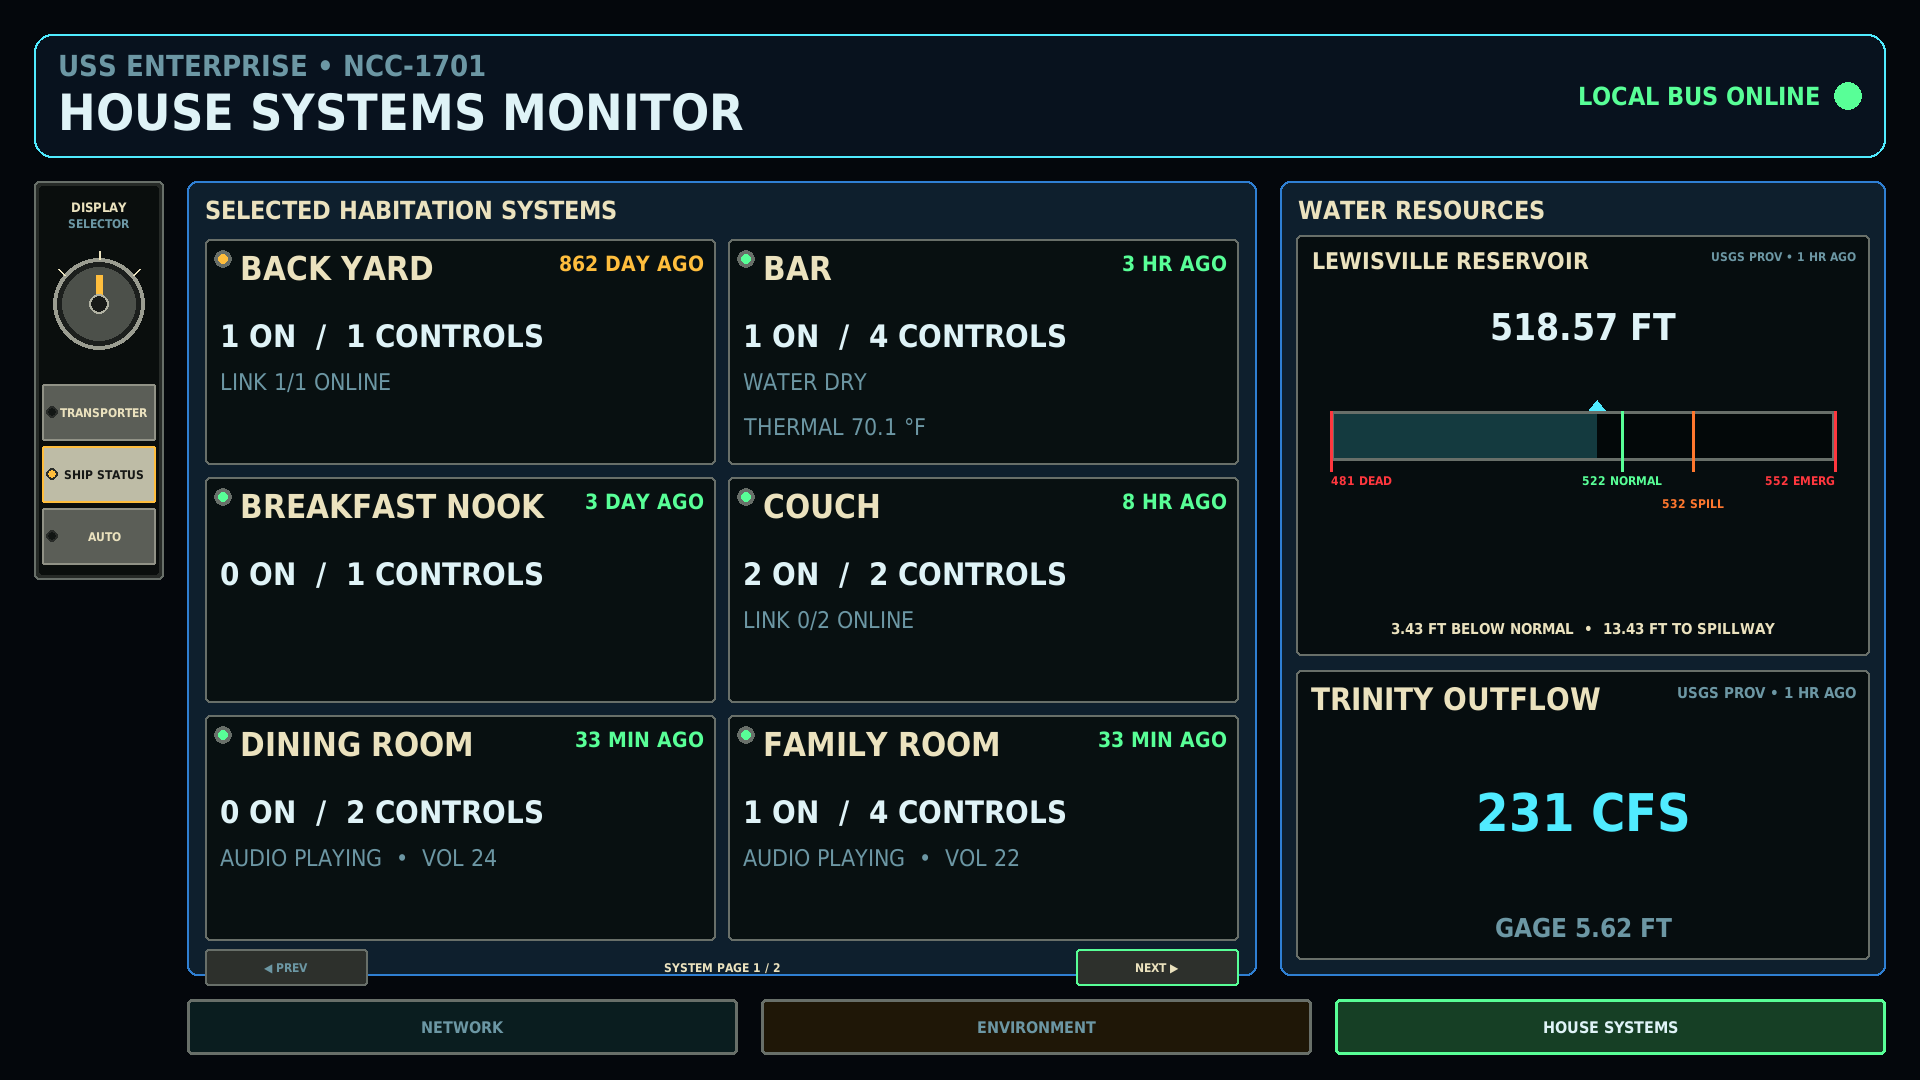
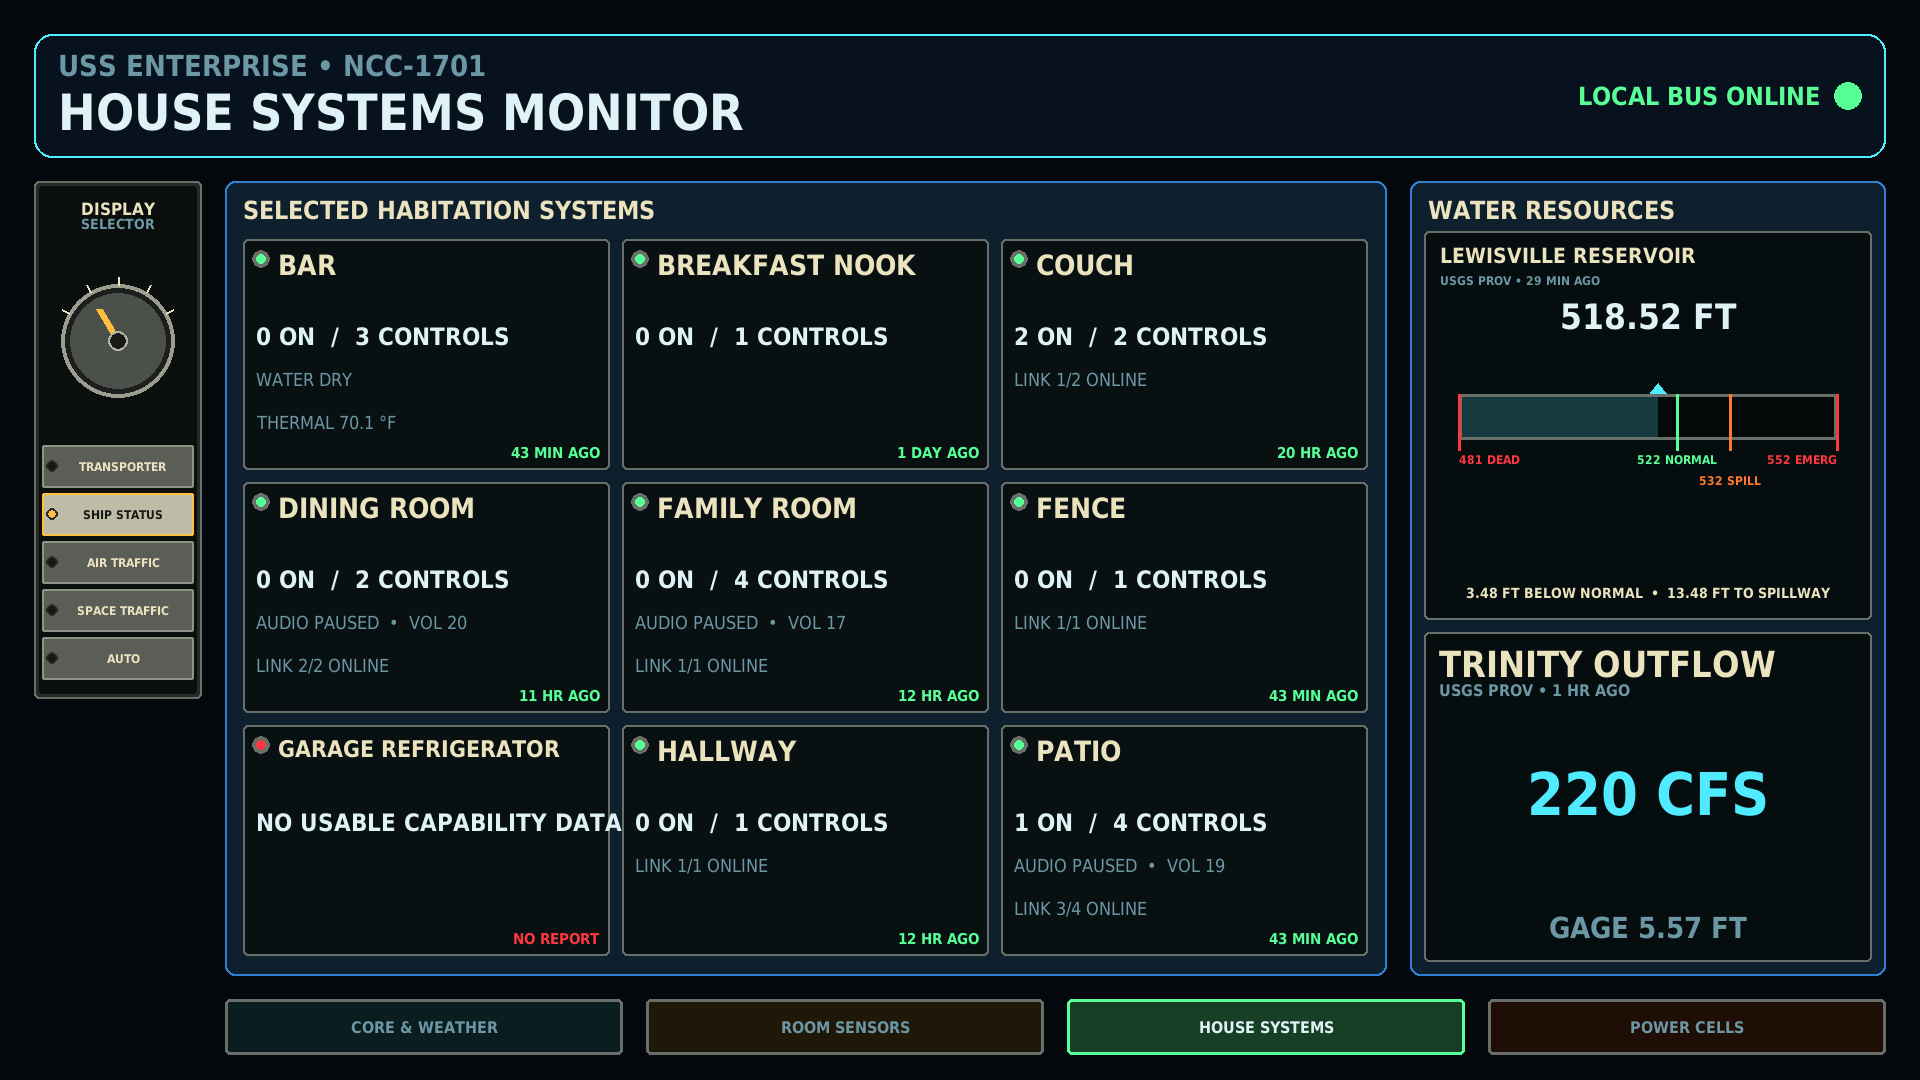
Compact house systems dashboard

Changed region(s): [[0.0, 0.1528, 1.0, 0.9778], [0.3125, 0.9167, 0.3438, 0.9778], [0.1875, 0.9472, 0.25, 0.9778]]

diff --git a/startrek.py b/startrek.py
@@ -853,7 +853,7 @@ def house_pager_layout(size):
     gap, margin = int(w * .012), int(w * .018)
     content_x = r["mode_selector"].right + gap
     content_w = w - margin - content_x
-    grid_w = int(content_w * .63)
+    grid_w = int(content_w * .70)
     y = status_nav_layout(size)["NETWORK"].y - int(h * .047)
     return {
         "PREVIOUS": pygame.Rect(content_x + 18, y, int(w * .085), int(h * .035)),
@@ -1678,18 +1678,20 @@ def draw_house_card(surface, rect, group, devices):
     panel(surface, rect, (8, 16, 17), BEZEL, 5)
     pygame.draw.circle(surface, BEZEL, (rect.x + 18, rect.y + 20), 9)
     pygame.draw.circle(surface, color, (rect.x + 18, rect.y + 20), 5)
-    txt(surface, group, rect.h * .15, CREAM, (rect.x + 35, rect.y + 10), bold=True)
-    txt(surface, compact_age(updated), rect.h * .095, color, (rect.right - 12, rect.y + 12), "topright", True)
-    line_y = rect.y + int(rect.h * .43)
+    title_scale = .10 if len(group) > 16 else .125
+    txt(surface, group, rect.h * title_scale, CREAM, (rect.x + 35, rect.y + 10), bold=True)
+    txt(surface, compact_age(updated), rect.h * .065, color,
+        (rect.right - 10, rect.bottom - 8), "bottomright", True)
+    line_y = rect.y + int(rect.h * .42)
     for index, line in enumerate(lines):
-        txt(surface, line, rect.h * (.14 if index == 0 else .105), WHITE if index == 0 else MUTED,
-            (rect.x + 15, line_y + index * int(rect.h * .20)), "midleft", index == 0)
+        txt(surface, line, rect.h * (.105 if index == 0 else .080), WHITE if index == 0 else MUTED,
+            (rect.x + 13, line_y + index * int(rect.h * .19)), "midleft", index == 0)
 
 def draw_reservoir_scale(surface, rect, lake):
     panel(surface, rect, (6, 13, 15), BEZEL, 5)
     txt(surface, "LEWISVILLE RESERVOIR", rect.h * .055, CREAM, (rect.x + 16, rect.y + 12), bold=True)
     txt(surface, f"USGS PROV • {compact_age(lake.get('updated'))}", rect.h * .030, MUTED,
-        (rect.right - 14, rect.y + 14), "topright", True)
+        (rect.x + 16, rect.y + int(rect.h * .11)), "topleft", True)
     elevation = lake.get("elevation_ft")
     fault = lake.get("error") or elevation is None
     txt(surface, f"{elevation:06.2f} FT" if elevation is not None else "DATA LINK FAULT",
@@ -1750,23 +1752,24 @@ def draw_house_status(surface, now, data):
     body_h = status_nav_layout(surface.get_size())["NETWORK"].y - body_y - gap
     content_x = r["mode_selector"].right + gap
     content_w = w - margin - content_x
-    grid_w = int(content_w * .63)
+    grid_w = int(content_w * .70)
     grid = pygame.Rect(content_x, body_y, grid_w, body_h)
     water_panel = pygame.Rect(grid.right + gap, body_y, content_w - grid_w - gap, body_h)
     panel(surface, grid, PANEL, BLUE, 10)
     txt(surface, "SELECTED HABITATION SYSTEMS", h * .024, CREAM,
         (grid.x + 18, grid.y + 14), bold=True)
     groups = grouped_house_systems(data)
-    page_size, page_count = 6, max(1, math.ceil(len(groups) / 6))
+    page_size, page_count = 9, max(1, math.ceil(len(groups) / 9))
     active_page = min(house_system_page, page_count - 1)
     shown = groups[active_page * page_size:(active_page + 1) * page_size]
     card_gap, top = 12, grid.y + 58
-    card_w = (grid.w - 36 - card_gap) // 2
+    columns, rows = 3, 3
+    card_w = (grid.w - 36 - card_gap * (columns - 1)) // columns
     pager = house_pager_layout(surface.get_size())
     cards_bottom = pager["PREVIOUS"].y - 8 if page_count > 1 else grid.bottom - 18
-    card_h = (cards_bottom - top - card_gap * 2) // 3
+    card_h = (cards_bottom - top - card_gap * (rows - 1)) // rows
     for index, (group, devices) in enumerate(shown):
-        col, row = index % 2, index // 2
+        col, row = index % columns, index // columns
         draw_house_card(surface, pygame.Rect(grid.x + 18 + col * (card_w + card_gap),
                                              top + row * (card_h + card_gap), card_w, card_h),
                         group, devices)
@@ -1784,17 +1787,17 @@ def draw_house_status(surface, now, data):
     txt(surface, "WATER RESOURCES", h * .024, CREAM,
         (water_panel.x + 18, water_panel.y + 14), bold=True)
     water = data.get("water", {})
-    lake_rect = pygame.Rect(water_panel.x + 16, water_panel.y + 54,
-                            water_panel.w - 32, int(water_panel.h * .53))
+    lake_rect = pygame.Rect(water_panel.x + 14, water_panel.y + 50,
+                            water_panel.w - 28, int(water_panel.h * .49))
     draw_reservoir_scale(surface, lake_rect, water.get("lake", {}))
     trinity = water.get("trinity", {})
-    river_rect = pygame.Rect(water_panel.x + 16, lake_rect.bottom + 14,
-                             water_panel.w - 32, water_panel.bottom - lake_rect.bottom - 30)
+    river_rect = pygame.Rect(water_panel.x + 14, lake_rect.bottom + 12,
+                             water_panel.w - 28, water_panel.bottom - lake_rect.bottom - 26)
     panel(surface, river_rect, (6, 13, 15), BEZEL, 5)
     txt(surface, "TRINITY OUTFLOW", river_rect.h * .11, CREAM,
         (river_rect.x + 15, river_rect.y + 11), bold=True)
-    txt(surface, f"USGS PROV • {compact_age(trinity.get('updated'))}", river_rect.h * .055, MUTED,
-        (river_rect.right - 14, river_rect.y + 14), "topright", True)
+    txt(surface, f"USGS PROV • {compact_age(trinity.get('updated'))}", river_rect.h * .050, MUTED,
+        (river_rect.x + 15, river_rect.y + int(river_rect.h * .15)), "topleft", True)
     flow = trinity.get("flow_cfs")
     gage = trinity.get("gage_ft")
     if flow is not None:

diff --git a/README.md b/README.md
@@ -285,7 +285,8 @@ Garage Refrigerator, Hallway, and Patio panels. It extracts only useful status
 capabilities such as switch state, dimmer level, audio playback/volume, device
 health, temperature, and water state. Old retained values retain their actual
 report age instead of being presented as fresh observations. The page is
-read-only and paginates six groups at a time.
+read-only and presents nine compact system groups alongside compact Lewisville
+Reservoir and Trinity outflow instruments.
 
 Water Resources polls the primary USGS feeds directly every 15 minutes in a
 background worker, while retaining the existing MQTT topics as fallback:
